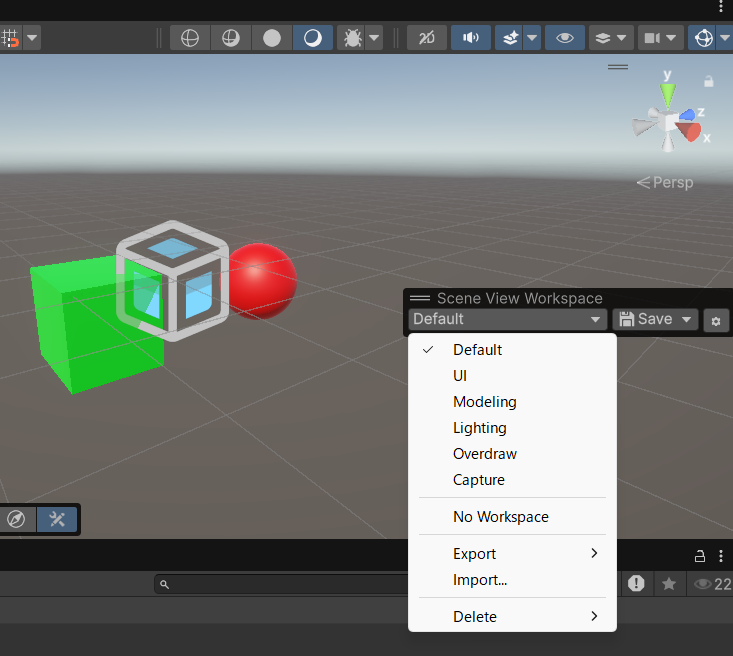
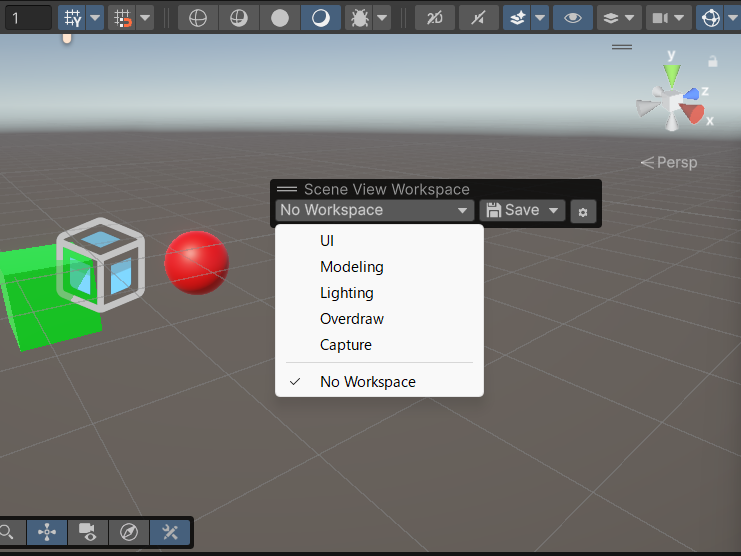
Update Scene View Workspace manual for v1.2.0

diff --git a/docs/scene-view-workspace/manual/settings.md b/docs/scene-view-workspace/manual/settings.md
@@ -1,8 +1,51 @@
-# Settings & Data Storage
+# Settings Window & Data Storage
 
-## Options
+## Workspace Settings Window
 
-![Options in the Workspace Settings window](/scene-view-workspace/SettingsWindow5.png)
+Open the Workspace Settings window from the settings button (⚙) on the [overlay](./overlay), or from **Window → TKGizmoLab → Scene View Workspace Settings**.
+
+The window has three tabs:
+
+| Tab | What it covers |
+| --- | --- |
+| **Workspaces** | Managing your saved Workspaces |
+| **Rules** | [Isolate auto-switch rules](./isolate-rules) |
+| **General** | Options that are not tied to a particular Workspace |
+
+## Workspaces Tab
+
+Lists every saved Workspace. The active Workspace is shown in bold.
+
+![The Workspaces tab of the Workspace Settings window](/scene-view-workspace/SceneViewOverlay3.png)
+
+| Element | Role |
+| --- | --- |
+| Drag handle (≡) | Reorders the list. The overlay dropdown and the rule target dropdowns follow this order. |
+| Apply Camera Pose | Whether switching to the Workspace moves the camera. See [below](#apply-camera-pose). |
+| Preset / Reset | Shown for Workspaces named after a [built-in preset](./presets). **Reset** returns the Workspace to the preset defaults. |
+| Rename (pencil) | Renames the Workspace. Rules that target it and the active selection follow the new name. |
+| + | **Save New...** saves the current Scene View as a new Workspace. **Add Preset** re-creates a built-in preset you deleted. |
+| − | Deletes the selected Workspace. Deleting the active Workspace returns the Scene View to the **No Workspace** state. |
+| Export / Import | Exports or imports Workspaces as JSON. See [Export / Import](./export-import#workspaces). |
+
+When several Scene Views are open, **Save New** and **Reset** in this window use the Scene View you focused last.
+
+### Apply Camera Pose
+
+- **On** — Switching to the Workspace restores the saved pivot position, rotation, and zoom, so the Workspace also works as a camera bookmark.
+- **Off** — The Workspace only switches settings, and the camera stays where you are. Turn this off for Workspaces used by [Isolate auto-switch](./isolate-rules) so the view stays on the isolated object.
+
+2D / 3D mode and the projection are always applied, whatever this option is set to. When you release a Workspace, by choosing **No Workspace** or by exiting Isolation view, the camera is restored only if that Workspace had this option on.
+
+You can also set this option when you save a Workspace with **Save → Save New**. The built-in presets start with it off, and you can change it like any other Workspace.
+
+## Rules Tab
+
+Add, reorder, and edit the rules that apply a Workspace when you enter Isolation view. See [Isolate Auto-Switch Rules](./isolate-rules).
+
+## General Tab
+
+![The General tab of the Workspace Settings window](/scene-view-workspace/SettingsWindow5.png)
 
 - **Track unsaved changes** — Periodically checks whether the Scene View differs from the saved Workspace and shows the `*` marker. Turn this off to remove the cost of this check.
 

diff --git a/docs/scene-view-workspace/limitations.md b/docs/scene-view-workspace/limitations.md
@@ -17,7 +17,7 @@ Switching Workspaces cannot be undone with <kbd>Ctrl</kbd> + <kbd>Z</kbd>. To go
 
 ## Camera Position
 
-The camera pivot is saved as a world-space position, so it is meaningful in the Scene where you saved it. Applying the Workspace in another Scene or in Prefab Mode moves the camera to the same coordinates.
+The camera pivot is saved as a world-space position, so it is meaningful in the Scene where you saved it. Applying the Workspace in another Scene or in Prefab Mode moves the camera to the same coordinates. To switch settings without moving the camera, turn off the Workspace's [Apply Camera Pose](./manual/settings#apply-camera-pose) option.
 
 ## Multiple Scene Views
 
@@ -27,13 +27,14 @@ A Workspace belongs to the Editor rather than to one Scene View.
 - **Editor-wide settings**, such as tools, snapping, and the Gizmos window, change in every Scene View.
 - **The selected Workspace is shared**, so the overlay in the other Scene Views shows a Workspace their view does not match.
 - **Selecting the Workspace that is already selected does nothing**, even from another Scene View. To apply it there, switch to a different Workspace first.
+- **Save New and Reset in the Workspace Settings window** use the Scene View you focused last.
 
 ## Isolate Auto-Switch
 
 - **If no rule matches**, the Workspace does not change, and nothing is restored when you exit Isolation view.
 - **If you isolate several objects at once**, the objects are checked one at a time, and the first object that matches any rule decides the Workspace.
 - **If you switch Workspaces by hand while in Isolation view**, exiting Isolation view still returns you to the view you had before entering it.
-- **If a rule's target Workspace has been deleted**, that rule does nothing.
+- **If a rule's target Workspace has been deleted**, that rule does nothing. Renaming a Workspace in the Workspace Settings window updates the rules that target it.
 
 ## Prefab Mode
 

diff --git a/docs/scene-view-workspace/manual/export-import.md b/docs/scene-view-workspace/manual/export-import.md
@@ -2,21 +2,23 @@
 
 Workspaces and Isolate auto-switch rules can each be exported to and imported from JSON files. Use this for backups or to share your setup between projects and teammates.
 
+Both are in the [Workspace Settings window](./settings#workspace-settings-window), which you open from the settings button (⚙) on the [overlay](./overlay).
+
 | What | Where |
 | --- | --- |
-| Workspaces | Workspace dropdown on the [overlay](./overlay) |
-| Isolate auto-switch rules | [Workspace Settings window](./isolate-rules) |
+| Workspaces | Bottom of the **Workspaces** tab |
+| Isolate auto-switch rules | Bottom of the **Rules** tab |
 
 ## Workspaces
 
-![Export and Import in the Workspace dropdown](/scene-view-workspace/SceneViewOverlay3.png)
+![The Export dropdown on the Workspaces tab](/scene-view-workspace/SceneViewOverlay3.png)
 
 - **Export** writes a single Workspace, or all Workspaces, to a JSON file.
-- **Import...** loads a JSON file and restores the Workspaces as they were at export time.
+- **Import...** loads a JSON file and restores the Workspaces as they were at export time. If a Workspace with the same name already exists, you can choose **Overwrite**, **Skip**, or **Rename**.
 
 ## Isolate Auto-Switch Rules
 
-![Export and Import buttons in the Workspace Settings window](/scene-view-workspace/SettingsWindow4.png)
+![Export and Import buttons for the rules](/scene-view-workspace/SettingsWindow4.png)
 
 - **Export...** saves the rules to a JSON file at any location.
 - **Import...** loads a saved JSON file. You can choose to **append** to or **replace** the existing rules.

diff --git a/docs/scene-view-workspace/manual/presets.md b/docs/scene-view-workspace/manual/presets.md
@@ -10,6 +10,15 @@ The following presets are created on first import. Each preset overrides only th
 | **Overdraw** | Overdraw draw mode. Effects and Gizmos off for performance diagnosis. |
 | **Capture** | A clean view for screenshots. Gizmos, grid, and selection outline off, effects on. |
 
-You can freely modify or delete these presets. They can also be restored from the Workspace Settings window.
+Presets start with [Apply Camera Pose](./settings#apply-camera-pose) turned off, so switching to a preset changes only the settings and leaves the camera where it is. Like any other Workspace, you can turn the option on for a preset on the **Workspaces** tab. **Reset** turns it off again along with the other preset defaults.
 
-![Restoring the built-in presets from the Workspace Settings window](/scene-view-workspace/SettingsWindow6_Preset.png)
+## Modifying and Restoring
+
+You can freely modify, rename, or delete these presets.
+
+On the **Workspaces** tab of the [Workspace Settings window](./settings#workspaces-tab), a Workspace whose name matches a built-in preset is marked **Preset**.
+
+- **Reset** returns it to the preset defaults.
+- **+ → Add Preset** brings back a preset you deleted.
+
+![Preset markers and Reset buttons on the Workspaces tab](/scene-view-workspace/SettingsWindow6_Preset.png)

diff --git a/docs/scene-view-workspace/index.md b/docs/scene-view-workspace/index.md
@@ -18,7 +18,7 @@ That's all you need to get started. To have a Workspace apply itself when you en
 ## What It Does
 
 - **One-click switching** — Change your whole Scene View setup from a dropdown right inside the Scene View.
-- **Saves the camera too** — A Workspace remembers the viewpoint as well as the display settings, so it also works as a camera bookmark. See [Saved Settings](./manual/saved-settings).
+- **Saves the camera too** — A Workspace remembers the viewpoint as well as the display settings, so it also works as a camera bookmark. Turn off [Apply Camera Pose](./manual/settings#apply-camera-pose) for a Workspace to switch only its settings and keep the camera where it is. See [Saved Settings](./manual/saved-settings).
 - **Auto-switch on Isolation** — Enter Isolation view (<kbd>Shift</kbd> + <kbd>H</kbd>) and the Workspace that matches the object's name, tag, or layer is applied. Your previous view returns when you exit.
 - **Non-destructive** — Only Editor-side Scene View state changes. Your Scenes and assets are never modified.
 - **Ready-to-use presets** — Five [built-in presets](./manual/presets) work the moment you import.

diff --git a/docs/scene-view-workspace/manual/overlay.md b/docs/scene-view-workspace/manual/overlay.md
@@ -28,6 +28,7 @@ The overlay has three controls.
 
 1. Set up the Scene View the way you want it (camera, draw mode, tools, and so on).
 2. Choose **Save → Save New** in the overlay and give the Workspace a name.
+   Uncheck **Apply camera pose** if the Workspace should only switch settings and leave the camera where it is. See [Apply Camera Pose](./settings#apply-camera-pose).
 3. To update the selected Workspace with the current state, choose **Save → Overwrite**.
 
 ![Save dropdown with Save New and Overwrite](/scene-view-workspace/SceneViewOverlay2.png)
@@ -35,6 +36,8 @@ The overlay has three controls.
 ## Switching Workspaces
 
 Saved Workspaces are listed in the Workspace dropdown. Selecting one applies the Scene View state it saved to the current view.
+
+The dropdown lists Workspaces in the order of the **Workspaces** tab in the [Workspace Settings window](./settings#workspaces-tab). Drag rows there to reorder them. Renaming, deleting, and exporting Workspaces are also done in that tab.
 
 Selecting **No Workspace** deselects the Workspace and returns the Scene View to the state it was in before you first selected a Workspace.
 

diff --git a/docs/scene-view-workspace/manual/isolate-rules.md b/docs/scene-view-workspace/manual/isolate-rules.md
@@ -4,11 +4,15 @@ When you enter Isolation view (select a GameObject in the Hierarchy and press <k
 
 ## How to Configure
 
-Open the Workspace Settings window from the settings button (⚙) on the [overlay](./overlay), or from **Window → TKGizmoLab → Scene View Workspace Settings**. Add, reorder, and edit rules in the **Isolate Auto-Switch Rules** section.
+Open the Workspace Settings window from the settings button (⚙) on the [overlay](./overlay), or from **Window → TKGizmoLab → Scene View Workspace Settings**. Add, reorder, and edit rules on the **Rules** tab.
 
 For each rule, select the Workspace to switch to when its conditions match.
 
-![A rule in the Isolate Auto-Switch Rules section](/scene-view-workspace/SettingsWindow1.png)
+![A rule on the Rules tab](/scene-view-workspace/SettingsWindow1.png)
+
+::: tip
+Turn off [Apply Camera Pose](./settings#apply-camera-pose) for the Workspaces your rules switch to, so the view stays on the isolated object.
+:::
 
 Press **+ Add Condition** to add a condition.
 

diff --git a/docs/scene-view-workspace/faq.md b/docs/scene-view-workspace/faq.md
@@ -32,6 +32,10 @@ Yes, with some caveats. A Workspace belongs to the Editor rather than to one Sce
 
 ## Using Scene View Workspace
 
+### Can I switch settings without moving the camera?
+
+Yes. Turn off [Apply Camera Pose](./manual/settings#apply-camera-pose) for that Workspace on the **Workspaces** tab of the Workspace Settings window, or uncheck it when you choose **Save → Save New**. The built-in presets start with it off.
+
 ### How do I move my Workspaces to another project?
 
 Workspaces are saved per project, so a new project starts with only the built-in presets. Use [Export / Import](./manual/export-import) to bring them over:

diff --git a/docs/scene-view-workspace/manual/index.md b/docs/scene-view-workspace/manual/index.md
@@ -13,4 +13,4 @@ It can also switch Workspaces automatically, based on the target object, when yo
 | [Isolate Auto-Switch Rules](./isolate-rules) | Applying a Workspace automatically when entering Isolation view |
 | [Built-in Presets](./presets) | The five Workspaces created on first import |
 | [Export / Import](./export-import) | Backing up and sharing Workspaces and rules as JSON |
-| [Settings & Data Storage](./settings) | Options, and where your data is saved |
+| [Settings Window & Data Storage](./settings) | Managing Workspaces, options, and where your data is saved |

diff --git a/docs/scene-view-workspace/changelog.md b/docs/scene-view-workspace/changelog.md
@@ -1,5 +1,12 @@
 # Changelog
 
+## v1.2.0
+
+- Added a per-workspace "Apply Camera Pose" option to keep the current camera position when switching
+- Reworked the Workspace Settings window into Workspaces / Rules / General tabs
+- Workspaces can now be renamed and reordered from the Workspace Settings window; the order is reflected in the overlay dropdown
+- Moved workspace Export / Import / Delete from the overlay dropdown into the Workspace Settings window
+
 ## v1.1.0
 
 - Changed the data storage location to `UserSettings/`

diff --git a/docs/scene-view-workspace/manual/saved-settings.md b/docs/scene-view-workspace/manual/saved-settings.md
@@ -5,7 +5,8 @@ A Workspace records the following Scene View states.
 ## Camera / View
 
 - 2D / 3D mode, orthographic / perspective projection
-- Pivot position, rotation, size (zoom), rotation lock
+- Pivot position, rotation, size (zoom) — restored only while the Workspace's [Apply Camera Pose](./settings#apply-camera-pose) option is on
+- Rotation lock
 - FOV, Near / Far clip, Dynamic Clip, Occlusion Culling
 - Camera movement speed (min / max / acceleration / easing)
 
